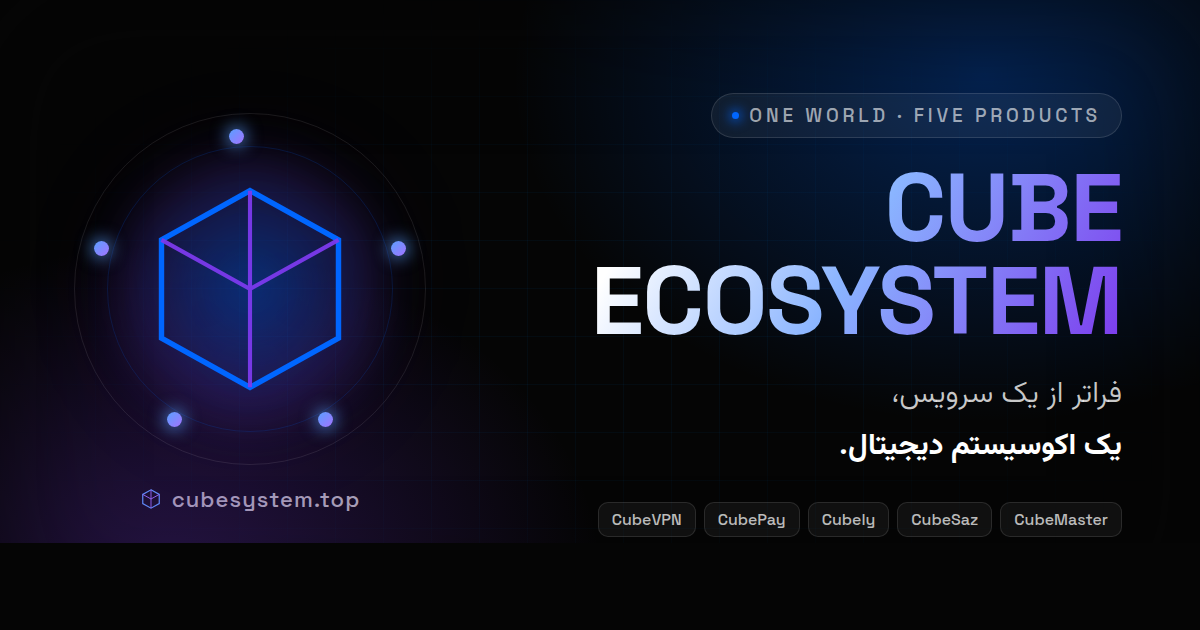
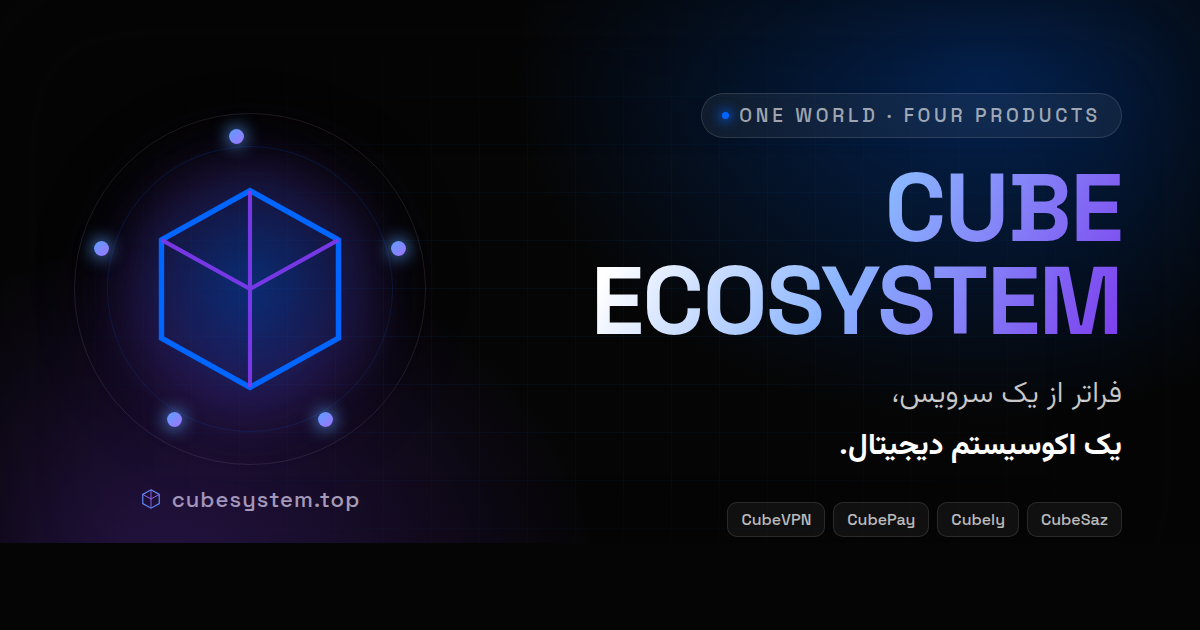
Remove CubeMaster and settle the site to four products
Everything it touched: the nav link, the hero pill, its node in the
diagram, product section 05, its world in the orbit, both footers, its
entry in the popup data, its mark in the sprite, the relay-and-lanes
visual nothing else used, and the README row.

Four also changes what the remaining brands look like. The kicker, the
orbit heading, the network copy and the meta description all count; the
orbit spaces its worlds 360/n apart, so 72 becomes 90; the sections
renumber 01-04 — their light and dark alternation happened to already be
right once the last one went.

Both layouts had a hole to close. The diagram was left with three nodes
around a core, so Cubely moves to the bottom slot and CubeSaz to the
left: four points, evenly spread. The hero pills regroup the same way,
with CubeVPN dropped clear of the cube's corner rather than sitting on
it.

The nav also loses the tightening it needed at 1040px, which existed
only because CubeMaster made it nine items; seven fit as they did
before.

Kept: the pill placement being pinned to scene edges, the hero stacking
below 1100px, and the scene's max-width. Those were fixes for a fault
that predated CubeMaster, not traces of it.

Claude-Session: https://claude.ai/code/session_0184bdv7LNitXUsnSwVEh6QA

Changed region(s): [[0.5858, 0.1508, 0.8017, 0.2111], [0.4933, 0.8143, 0.925, 0.8444]]

diff --git a/index.html b/index.html
@@ -4,7 +4,7 @@
 <meta charset="UTF-8">
 <meta name="viewport" content="width=device-width, initial-scale=1.0">
 <title>Cube Ecosystem — فراتر از یک سرویس، یک اکوسیستم دیجیتال</title>
-<meta name="description" content="اکوسیستم Cube — اتصال، پرداخت، بازار دیجیتال، ساخت ربات و مدیریت زیرساخت. CubeVPN، CubePay، Cubely، CubeSaz و CubeMaster در یک جهان.">
+<meta name="description" content="اکوسیستم Cube — اتصال، پرداخت، بازار دیجیتال و ساخت ربات. CubeVPN، CubePay، Cubely و CubeSaz در یک جهان.">
 <!-- cubepy.github.io serves these same files as the fallback for visitors
      ArvanCloud does not reach, so every page exists at two addresses. The
      canonical names the real one so Google does not split them. -->
@@ -265,11 +265,10 @@ h1.hero-title{
 
    The float animates the standalone translate property rather than transform:
    the entrance tween scales these, and two things writing transform fight. */
-.sat1{left:10%;top:6%;animation:floatA 7s ease-in-out infinite}
-.sat2{right:4%;top:16%;animation:floatB 8s ease-in-out infinite}
-.sat3{left:6%;top:74%;animation:floatB 7.5s ease-in-out infinite}
-.sat4{right:16%;top:88%;animation:floatA 8.5s ease-in-out infinite}
-.sat5{left:2%;top:42%;animation:floatB 6.5s ease-in-out infinite}
+.sat1{left:10%;top:8%;animation:floatA 7s ease-in-out infinite}
+.sat2{right:6%;top:18%;animation:floatB 8s ease-in-out infinite}
+.sat3{left:6%;top:76%;animation:floatB 7.5s ease-in-out infinite}
+.sat4{right:4%;top:70%;animation:floatA 8.5s ease-in-out infinite}
 @media(max-width:900px){.sat{font-size:11.5px;padding:7px 12px}}
 @keyframes floatA{0%,100%{translate:0 0}50%{translate:0 -11px}}
 @keyframes floatB{0%,100%{translate:0 0}50%{translate:0 10px}}
@@ -316,8 +315,7 @@ h1.hero-title{
 .net-top{grid-column:2;grid-row:1;margin-bottom:52px}
 .net-right{grid-column:3;grid-row:2}
 .net-left{grid-column:1;grid-row:2}
-.net-bl{grid-column:1;grid-row:3;margin-top:52px}
-.net-br{grid-column:3;grid-row:3;margin-top:52px}
+.net-bottom{grid-column:2;grid-row:3;margin-top:52px}
 .net-lines{position:absolute;inset:0;z-index:1;pointer-events:none}
 .net-lines line{
   stroke:url(#lineGrad);stroke-width:1.5;
@@ -421,30 +419,6 @@ h1.hero-title{
 .ai-ring.r2{inset:-26px;border-color:rgba(124,58,237,.4);animation-duration:18s;animation-direction:reverse}
 @keyframes rot{to{transform:rotate(360deg)}}
 .ai-orb{width:86px;height:86px;border-radius:50%;background:radial-gradient(circle at 35% 30%,rgba(0,140,255,.9),rgba(124,58,237,.7));box-shadow:0 0 44px rgba(0,102,255,.6);animation:pulse 3.4s ease-in-out infinite}
-/* CubeMaster: relay, three candidate lanes, exit — one of them carrying */
-/* The rail flexes instead of sitting at a fixed width: fixed, it pushed IR
-   and EXIT past the edges of the panel that clips them on a 360px screen. */
-.lanes{display:flex;align-items:center;justify-content:center;gap:16px;direction:ltr;
-  width:100%;max-width:344px;padding:0 16px}
-.lane-end{
-  flex:none;
-  font-family:var(--en);font-size:11.5px;font-weight:600;letter-spacing:.08em;
-  padding:14px 12px;border-radius:12px;white-space:nowrap;
-  background:var(--glass);border:1px solid rgba(0,140,255,.35);
-  box-shadow:0 0 22px rgba(0,102,255,.18);
-}
-.lane-rail{display:flex;flex-direction:column;gap:24px;flex:1 1 auto;min-width:0;max-width:186px}
-.lane{
-  height:2px;border-radius:2px;
-  background:repeating-linear-gradient(90deg,rgba(255,255,255,.28) 0 5px,transparent 5px 12px);
-}
-.lane.live{
-  height:3px;
-  background:repeating-linear-gradient(90deg,#0066FF 0 7px,transparent 7px 15px);
-  box-shadow:0 0 14px rgba(0,102,255,.75);
-  animation:laneflow 1.1s linear infinite;
-}
-@keyframes laneflow{to{background-position:15px 0}}
 .ai-ring .nodeb{position:absolute;top:-5px;left:50%;width:10px;height:10px;border-radius:3px;background:var(--purple);box-shadow:0 0 12px var(--purple)}
 
 /* ---------- worlds ---------- */
@@ -627,7 +601,7 @@ footer{
      and six separate files would undo that for 5KB of vectors. Only the line
      variant of each mark is here; the gradient defs the kit ships with are
      unused by it, so they are stripped. -->
-<svg width="0" height="0" style="position:absolute" aria-hidden="true"><symbol id="m-vpn" viewBox="0 0 256 256"><path d="M18 180 L238 92" fill="none" stroke="#22D3EE" stroke-width="12" stroke-linecap="round" stroke-linejoin="round" opacity="0.25"/><polygon points="128.0,54.0 195.5,93.0 195.5,171.0 128.0,210.0 60.5,171.0 60.5,93.0" fill="none" stroke="#0066FF" stroke-width="12" stroke-linecap="round" stroke-linejoin="round" opacity="0.45"/><path d="M128 54 L128 132 M128 132 L60.5 93 M128 132 L195.5 93" fill="none" stroke="#0066FF" stroke-width="12" stroke-linecap="round" stroke-linejoin="round" opacity="0.45"/><path d="M18 180 L60 163" fill="none" stroke="#22D3EE" stroke-width="12" stroke-linecap="round" stroke-linejoin="round"/><path d="M190 111 L238 92" fill="none" stroke="#22D3EE" stroke-width="12" stroke-linecap="round" stroke-linejoin="round"/><path d="M210 70 L242 90 L216 112" fill="none" stroke="#22D3EE" stroke-width="12" stroke-linecap="round" stroke-linejoin="round"/></symbol><symbol id="m-pay" viewBox="0 0 256 256"><polygon points="128.0,54.0 195.5,93.0 195.5,171.0 128.0,210.0 60.5,171.0 60.5,93.0" fill="none" stroke="#6D5EF6" stroke-width="12" stroke-linecap="round" stroke-linejoin="round" opacity="0.45"/><path d="M128 54 L128 132 M128 132 L60.5 93 M128 132 L195.5 93" fill="none" stroke="#6D5EF6" stroke-width="12" stroke-linecap="round" stroke-linejoin="round" opacity="0.45"/><path d="M82 136 L114 170 L192 86" fill="none" stroke="#2BD9A0" stroke-width="12" stroke-linecap="round" stroke-linejoin="round"/></symbol><symbol id="m-cubely" viewBox="0 0 256 256"><polygon points="128.0,54.0 195.5,93.0 195.5,171.0 128.0,210.0 60.5,171.0 60.5,93.0" fill="none" stroke="#FF2E8B" stroke-width="12" stroke-linecap="round" stroke-linejoin="round" opacity="0.45"/><path d="M128 54 L128 132 M128 132 L60.5 93 M128 132 L195.5 93" fill="none" stroke="#FF2E8B" stroke-width="12" stroke-linecap="round" stroke-linejoin="round" opacity="0.45"/><path d="M92 190 L92 156 M128 190 L128 128 M164 190 L164 100" fill="none" stroke="#FF8A3D" stroke-width="12" stroke-linecap="round" stroke-linejoin="round"/><path d="M76 84 L110 54 L146 76 L198 30" fill="none" stroke="#FF8A3D" stroke-width="12" stroke-linecap="round" stroke-linejoin="round"/><path d="M172 26 L202 26 L202 56" fill="none" stroke="#FF8A3D" stroke-width="12" stroke-linecap="round" stroke-linejoin="round"/></symbol><symbol id="m-saz" viewBox="0 0 256 256"><polygon points="128.0,54.0 195.5,93.0 195.5,171.0 128.0,210.0 60.5,171.0 60.5,93.0" fill="none" stroke="#2563EB" stroke-width="12" stroke-linecap="round" stroke-linejoin="round" opacity="0.45"/><path d="M128 54 L128 132 M128 132 L60.5 93 M128 132 L195.5 93" fill="none" stroke="#2563EB" stroke-width="12" stroke-linecap="round" stroke-linejoin="round" opacity="0.45"/><path d="M161.8 73.5 L94.2 112.5 M94.2 73.5 L161.8 112.5 M195.5 132.0 L128.0 171.0 M161.8 112.5 L161.8 190.5 M60.5 132.0 L128.0 171.0 M94.2 112.5 L94.2 190.5" fill="none" stroke="#2563EB" stroke-width="12" stroke-linecap="round" stroke-linejoin="round" opacity="0.45"/><polygon points="128.0,132.0 161.8,112.5 128.0,93.0 94.2,112.5" fill="#7EA6F7" opacity="0.9"/><polygon points="128.0,132.0 161.8,112.5 161.8,151.5 128.0,171.0" fill="#7EA6F7" opacity="0.62"/><polygon points="128.0,132.0 94.2,112.5 94.2,151.5 128.0,171.0" fill="#7EA6F7" opacity="0.4"/></symbol><symbol id="m-master" viewBox="0 0 256 256"><polygon points="87.3,115.0 128.0,138.5 128.0,185.5 87.3,209.0 46.6,185.5 46.6,138.5" fill="none" stroke="#1EE0A0" stroke-width="12" stroke-linecap="round" stroke-linejoin="round" opacity="0.45"/><path d="M87.298 115 L87.298 162 M87.298 162 L46.6 138.5 M87.298 162 L128.0 138.5" fill="none" stroke="#1EE0A0" stroke-width="12" stroke-linecap="round" stroke-linejoin="round" opacity="0.45"/><polygon points="168.7,115.0 209.4,138.5 209.4,185.5 168.7,209.0 128.0,185.5 128.0,138.5" fill="none" stroke="#1EE0A0" stroke-width="12" stroke-linecap="round" stroke-linejoin="round" opacity="0.45"/><path d="M168.702 115 L168.702 162 M168.702 162 L128.0 138.5 M168.702 162 L209.4 138.5" fill="none" stroke="#1EE0A0" stroke-width="12" stroke-linecap="round" stroke-linejoin="round" opacity="0.45"/><polygon points="128.0,44.5 168.7,68.0 168.7,115.0 128.0,138.5 87.3,115.0 87.3,68.0" fill="none" stroke="#F5A524" stroke-width="12" stroke-linecap="round" stroke-linejoin="round"/><path d="M128 44.5 L128 91.5 M128 91.5 L87.3 68.0 M128 91.5 L168.7 68.0" fill="none" stroke="#F5A524" stroke-width="12" stroke-linecap="round" stroke-linejoin="round"/></symbol></svg>
+<svg width="0" height="0" style="position:absolute" aria-hidden="true"><symbol id="m-vpn" viewBox="0 0 256 256"><path d="M18 180 L238 92" fill="none" stroke="#22D3EE" stroke-width="12" stroke-linecap="round" stroke-linejoin="round" opacity="0.25"/><polygon points="128.0,54.0 195.5,93.0 195.5,171.0 128.0,210.0 60.5,171.0 60.5,93.0" fill="none" stroke="#0066FF" stroke-width="12" stroke-linecap="round" stroke-linejoin="round" opacity="0.45"/><path d="M128 54 L128 132 M128 132 L60.5 93 M128 132 L195.5 93" fill="none" stroke="#0066FF" stroke-width="12" stroke-linecap="round" stroke-linejoin="round" opacity="0.45"/><path d="M18 180 L60 163" fill="none" stroke="#22D3EE" stroke-width="12" stroke-linecap="round" stroke-linejoin="round"/><path d="M190 111 L238 92" fill="none" stroke="#22D3EE" stroke-width="12" stroke-linecap="round" stroke-linejoin="round"/><path d="M210 70 L242 90 L216 112" fill="none" stroke="#22D3EE" stroke-width="12" stroke-linecap="round" stroke-linejoin="round"/></symbol><symbol id="m-pay" viewBox="0 0 256 256"><polygon points="128.0,54.0 195.5,93.0 195.5,171.0 128.0,210.0 60.5,171.0 60.5,93.0" fill="none" stroke="#6D5EF6" stroke-width="12" stroke-linecap="round" stroke-linejoin="round" opacity="0.45"/><path d="M128 54 L128 132 M128 132 L60.5 93 M128 132 L195.5 93" fill="none" stroke="#6D5EF6" stroke-width="12" stroke-linecap="round" stroke-linejoin="round" opacity="0.45"/><path d="M82 136 L114 170 L192 86" fill="none" stroke="#2BD9A0" stroke-width="12" stroke-linecap="round" stroke-linejoin="round"/></symbol><symbol id="m-cubely" viewBox="0 0 256 256"><polygon points="128.0,54.0 195.5,93.0 195.5,171.0 128.0,210.0 60.5,171.0 60.5,93.0" fill="none" stroke="#FF2E8B" stroke-width="12" stroke-linecap="round" stroke-linejoin="round" opacity="0.45"/><path d="M128 54 L128 132 M128 132 L60.5 93 M128 132 L195.5 93" fill="none" stroke="#FF2E8B" stroke-width="12" stroke-linecap="round" stroke-linejoin="round" opacity="0.45"/><path d="M92 190 L92 156 M128 190 L128 128 M164 190 L164 100" fill="none" stroke="#FF8A3D" stroke-width="12" stroke-linecap="round" stroke-linejoin="round"/><path d="M76 84 L110 54 L146 76 L198 30" fill="none" stroke="#FF8A3D" stroke-width="12" stroke-linecap="round" stroke-linejoin="round"/><path d="M172 26 L202 26 L202 56" fill="none" stroke="#FF8A3D" stroke-width="12" stroke-linecap="round" stroke-linejoin="round"/></symbol><symbol id="m-saz" viewBox="0 0 256 256"><polygon points="128.0,54.0 195.5,93.0 195.5,171.0 128.0,210.0 60.5,171.0 60.5,93.0" fill="none" stroke="#2563EB" stroke-width="12" stroke-linecap="round" stroke-linejoin="round" opacity="0.45"/><path d="M128 54 L128 132 M128 132 L60.5 93 M128 132 L195.5 93" fill="none" stroke="#2563EB" stroke-width="12" stroke-linecap="round" stroke-linejoin="round" opacity="0.45"/><path d="M161.8 73.5 L94.2 112.5 M94.2 73.5 L161.8 112.5 M195.5 132.0 L128.0 171.0 M161.8 112.5 L161.8 190.5 M60.5 132.0 L128.0 171.0 M94.2 112.5 L94.2 190.5" fill="none" stroke="#2563EB" stroke-width="12" stroke-linecap="round" stroke-linejoin="round" opacity="0.45"/><polygon points="128.0,132.0 161.8,112.5 128.0,93.0 94.2,112.5" fill="#7EA6F7" opacity="0.9"/><polygon points="128.0,132.0 161.8,112.5 161.8,151.5 128.0,171.0" fill="#7EA6F7" opacity="0.62"/><polygon points="128.0,132.0 94.2,112.5 94.2,151.5 128.0,171.0" fill="#7EA6F7" opacity="0.4"/></symbol></svg>
 
 <!-- preloader -->
 <div id="loader">
@@ -658,7 +632,6 @@ footer{
     <a href="#pay">CubePay</a>
     <a href="#cubely">Cubely</a>
     <a href="#saz">CubeSaz</a>
-    <a href="#master">CubeMaster</a>
     <a href="apps/">Apps</a>
     <a href="#support">Support</a>
   </div>
@@ -668,10 +641,10 @@ footer{
 <section id="hero">
   <div class="wrap hero-grid">
     <div class="hero-copy" id="heroCopy">
-      <span class="hero-kicker reveal"><span class="dot"></span> ONE WORLD · FIVE PRODUCTS</span>
+      <span class="hero-kicker reveal"><span class="dot"></span> ONE WORLD · FOUR PRODUCTS</span>
       <h1 class="hero-title en reveal">CUBE<br>ECOSYSTEM</h1>
       <div class="hero-fa reveal">فراتر از یک سرویس،<br>یک اکوسیستم دیجیتال.</div>
-      <p class="hero-sub reveal">اتصال، پرداخت، بازار دیجیتال، ساخت ربات و زیرساخت.<br>همه در یک جهان.</p>
+      <p class="hero-sub reveal">اتصال، پرداخت، بازار دیجیتال و ساخت ربات.<br>همه در یک جهان.</p>
       <div class="hero-cta reveal">
         <a class="btn-primary en" href="#network">Explore Ecosystem
           <svg width="16" height="16" viewBox="0 0 24 24" fill="none"><path d="M12 5v14m0 0 6-6m-6 6-6-6" stroke="currentColor" stroke-width="2" stroke-linecap="round" stroke-linejoin="round"/></svg>
@@ -692,9 +665,8 @@ footer{
       </div>
       <div class="sat sat1 en"><svg class="mark" aria-hidden="true"><use href="#m-pay"/></svg>CubePay</div>
       <div class="sat sat3 en"><svg class="mark" aria-hidden="true"><use href="#m-cubely"/></svg>Cubely</div>
-      <div class="sat sat4 en"><svg class="mark" aria-hidden="true"><use href="#m-saz"/></svg>CubeSaz</div>
-      <div class="sat sat5 en"><svg class="mark" aria-hidden="true"><use href="#m-vpn"/></svg>CubeVPN</div>
-      <div class="sat sat2 en"><svg class="mark" aria-hidden="true"><use href="#m-master"/></svg>CubeMaster</div>
+      <div class="sat sat2 en"><svg class="mark" aria-hidden="true"><use href="#m-saz"/></svg>CubeSaz</div>
+      <div class="sat sat4 en"><svg class="mark" aria-hidden="true"><use href="#m-vpn"/></svg>CubeVPN</div>
     </div>
   </div>
 </section>
@@ -704,7 +676,7 @@ footer{
   <div class="wrap">
     <div class="section-kicker reveal">THE CUBE NETWORK</div>
     <h2 class="section-title en reveal">One core.<br>Infinite connections.</h2>
-    <p class="section-fa reveal">همهچیز از یک هسته شروع میشود — CUBE قلب اکوسیستم است<br>و پنج جهان دیجیتال به دور آن میچرخند.</p>
+    <p class="section-fa reveal">همهچیز از یک هسته شروع میشود — CUBE قلب اکوسیستم است<br>و چهار جهان دیجیتال به دور آن میچرخند.</p>
 
     <div class="net-scene reveal">
       <!-- Connector lines are generated from the real card positions in JS
@@ -723,9 +695,8 @@ footer{
       <div class="net-node net-top en" data-brand="vpn"><svg class="mark" aria-hidden="true"><use href="#m-vpn"/></svg>CubeVPN</div>
       <div class="net-node net-core en">CUBE</div>
       <div class="net-node net-right en" data-brand="pay"><svg class="mark" aria-hidden="true"><use href="#m-pay"/></svg>CubePay</div>
-      <div class="net-node net-bl en" data-brand="cubely"><svg class="mark" aria-hidden="true"><use href="#m-cubely"/></svg>Cubely</div>
-      <div class="net-node net-br en" data-brand="saz"><svg class="mark" aria-hidden="true"><use href="#m-saz"/></svg>CubeSaz</div>
-      <div class="net-node net-left en" data-brand="master"><svg class="mark" aria-hidden="true"><use href="#m-master"/></svg>CubeMaster</div>
+      <div class="net-node net-bottom en" data-brand="cubely"><svg class="mark" aria-hidden="true"><use href="#m-cubely"/></svg>Cubely</div>
+      <div class="net-node net-left en" data-brand="saz"><svg class="mark" aria-hidden="true"><use href="#m-saz"/></svg>CubeSaz</div>
     </div>
 
     <p class="net-msg reveal"><strong>CUBE is the core.</strong><br>Everything connects around it.</p>
@@ -810,38 +781,12 @@ footer{
   </div>
 </section>
 
-<!-- ═══════════ 05 CubeMaster ═══════════ -->
-<section id="master" class="product">
-  <div class="wrap prod-grid">
-    <div class="prod-text">
-      <div class="prod-num en anim">05</div>
-      <h2 class="prod-name en anim">Cube<span class="accent">Master</span></h2>
-      <div class="prod-fa anim">پنل فروش نمایندگی،<br>روی زیرساختی که نمیخوابد.</div>
-      <p class="prod-desc anim">نمایندههایت را کامل مدیریت کن: کیف پول، قیمت هر گیگ، صورتحساب خودکار، انقضا و ربات تلگرام. زیرش هم مسیرها مدام از داخل ایران سنجیده میشوند و وقتی یکی افت میکند، کاربرها بیسروصدا روی مسیر سالم میروند.</p>
-      <a class="prod-link anim" href="https://t.me/CubePanel" target="_blank" rel="noopener">t.me/CubePanel ↗</a>
-    </div>
-    <div class="prod-visual anim-vis">
-      <!-- three lanes between an Iranian relay and a foreign exit; the live one
-           carries the dashes, the others wait. That is the product. -->
-      <div class="viz-icon lanes">
-        <div class="lane-end">IR</div>
-        <div class="lane-rail">
-          <div class="lane live"></div>
-          <div class="lane"></div>
-          <div class="lane"></div>
-        </div>
-        <div class="lane-end">EXIT</div>
-      </div>
-    </div>
-  </div>
-</section>
-
 <!-- ═══════════ WORLDS ═══════════ -->
 <section id="worlds">
   <div class="wrap">
     <div class="section-kicker reveal">ORBIT</div>
-    <h2 class="section-title en reveal">One Ecosystem.<br>Five Worlds.</h2>
-    <p class="section-fa reveal">پنج جهان دیجیتال، در مدار یک هسته.</p>
+    <h2 class="section-title en reveal">One Ecosystem.<br>Four Worlds.</h2>
+    <p class="section-fa reveal">چهار جهان دیجیتال، در مدار یک هسته.</p>
     <div class="worlds-stage reveal" id="worldsStage">
       <div class="worlds-orbit" id="worldsOrbit">
         <div class="world core-world">
@@ -849,21 +794,18 @@ footer{
             <svg viewBox="0 0 24 24" fill="none"><path d="M12 2 21 7v10l-9 5-9-5V7l9-5Z" stroke="#fff" stroke-width="1.3"/><path d="M12 2v10m0 0 9-5m-9 5-9-5m9 5v10" stroke="rgba(255,255,255,.7)" stroke-width="1"/></svg>
           </div><span>CUBE</span>
         </div>
-        <!-- angles are 360/n apart; five worlds means 72, not 60 -->
+        <!-- angles are 360/n apart; four worlds means 90, not 72 -->
         <a class="world" href="https://t.me/Cube_VPNN" target="_blank" rel="noopener" data-angle="0" data-brand="vpn">
           <div class="sphere"><svg class="mark" aria-hidden="true"><use href="#m-vpn"/></svg></div><span>CubeVPN</span>
         </a>
-        <a class="world pu" href="https://t.me/Cubepy" target="_blank" rel="noopener" data-angle="72" data-brand="pay">
+        <a class="world pu" href="https://t.me/Cubepy" target="_blank" rel="noopener" data-angle="90" data-brand="pay">
           <div class="sphere"><svg class="mark" aria-hidden="true"><use href="#m-pay"/></svg></div><span>CubePay</span>
         </a>
-        <a class="world" href="https://cubely.ir/" target="_blank" rel="noopener" data-angle="144" data-brand="cubely">
+        <a class="world" href="https://cubely.ir/" target="_blank" rel="noopener" data-angle="180" data-brand="cubely">
           <div class="sphere"><svg class="mark" aria-hidden="true"><use href="#m-cubely"/></svg></div><span>Cubely</span>
         </a>
-        <a class="world pu" href="https://t.me/CubeSaz" target="_blank" rel="noopener" data-angle="216" data-brand="saz">
+        <a class="world pu" href="https://t.me/CubeSaz" target="_blank" rel="noopener" data-angle="270" data-brand="saz">
           <div class="sphere"><svg class="mark" aria-hidden="true"><use href="#m-saz"/></svg></div><span>CubeSaz</span>
-        </a>
-        <a class="world" href="https://t.me/CubePanel" target="_blank" rel="noopener" data-angle="288" data-brand="master">
-          <div class="sphere"><svg class="mark" aria-hidden="true"><use href="#m-master"/></svg></div><span>CubeMaster</span>
         </a>
       </div>
     </div>
@@ -920,7 +862,6 @@ footer{
     <a href="https://t.me/Cubepy" target="_blank" rel="noopener" data-brand="pay"><svg class="mark" aria-hidden="true"><use href="#m-pay"/></svg>CubePay</a>
     <a href="https://cubely.ir/" target="_blank" rel="noopener" data-brand="cubely"><svg class="mark" aria-hidden="true"><use href="#m-cubely"/></svg>Cubely</a>
     <a href="https://t.me/CubeSaz" target="_blank" rel="noopener" data-brand="saz"><svg class="mark" aria-hidden="true"><use href="#m-saz"/></svg>CubeSaz</a>
-    <a href="https://t.me/CubePanel" target="_blank" rel="noopener" data-brand="master"><svg class="mark" aria-hidden="true"><use href="#m-master"/></svg>CubeMaster</a>
     <a href="apps/"><i></i>Apps</a>
     <a href="https://donofa.com/Cube" target="_blank" rel="noopener"><i></i>Support</a>
   </div>
@@ -1463,12 +1404,7 @@ function loadThree(){
       tag:'ربات فروش خودت را در ۲ دقیقه بساز.',
       desc:'پلتفرم ساخت ربات فروش — بدون سرور، بدون کدنویسی و بدون هزینه اولیه؛ فقط توکن ربات را بده، بقیهاش با ماست.',
       feats:['پشتیبانی از ۱۳ پنل: مرزبان، هیدیفای، 3X-UI و…','مینیاپ اختصاصی مشتری داخل تلگرام','کیف پول و درگاه: کریپتو، کارتبهکارت، زرینپال','بکاپ خودکار هر ۶ ساعت + ۳ روز تست رایگان'],
-      url:'https://t.me/CubeSaz',cta:'Join CubeSaz'},
-    master:{name:'CubeMaster',color:'#7C3AED',glow:'rgba(124,58,237,.18)',
-      tag:'پنل فروش نمایندگی.',
-      desc:'نمایندگیات را کامل میگرداند — کیف پول، قیمتگذاری هر گیگ، صورتحساب خودکار و انقضا — و زیر همان پنل، تونلها را خودش سرپا نگه میدارد.',
-      feats:['کیف پول نماینده با صورتحساب و شارژ خودکار','قیمت هر گیگابایت و سقف اعتبار برای هر نماینده','ربات تلگرام نماینده + تأیید رسید و ثبتنام','مسیرها از داخل ایران سنجیده و خودکار جابهجا میشوند'],
-      url:'https://t.me/CubePanel',cta:'Join CubePanel'}
+      url:'https://t.me/CubeSaz',cta:'Join CubeSaz'}
   };
   const bd=document.getElementById('brandModal'),
         modal=bd.querySelector('.modal'),

diff --git a/tools/og/cover.html b/tools/og/cover.html
@@ -96,7 +96,7 @@ h1 span{display:block}
   <div class="edge"></div>
 
   <div class="copy">
-    <div class="kicker"><i></i>ONE WORLD · FIVE PRODUCTS</div>
+    <div class="kicker"><i></i>ONE WORLD · FOUR PRODUCTS</div>
     <h1><span>CUBE</span><span>ECOSYSTEM</span></h1>
     <div class="tag">فراتر از یک سرویس،<br><b>یک اکوسیستم دیجیتال.</b></div>
     <div class="chips">
@@ -104,7 +104,6 @@ h1 span{display:block}
       <div class="chip">CubePay</div>
       <div class="chip">Cubely</div>
       <div class="chip">CubeSaz</div>
-      <div class="chip">CubeMaster</div>
     </div>
   </div>
 

diff --git a/apps/index.html b/apps/index.html
@@ -203,7 +203,6 @@ footer{position:relative;z-index:2;background:#000;border-top:1px solid rgba(255
     <a href="https://t.me/Cubepy" target="_blank" rel="noopener"><i></i>CubePay</a>
     <a href="https://cubely.ir/" target="_blank" rel="noopener"><i></i>Cubely</a>
     <a href="https://t.me/CubeSaz" target="_blank" rel="noopener"><i></i>CubeSaz</a>
-    <a href="https://t.me/CubePanel" target="_blank" rel="noopener"><i></i>CubeMaster</a>
     <a href="https://donofa.com/Cube" target="_blank" rel="noopener"><i></i>Support</a>
   </div>
   <div class="footer-copy">© Cube Ecosystem — Connect. Create. Evolve.</div>

diff --git a/README.md b/README.md
@@ -2,7 +2,7 @@
 
 🌐 **https://cubesystem.top**
 
-لندینگ رسمی اکوسیستم Cube — اتصال، پرداخت، بازار دیجیتال، ساخت ربات و زیرساخت.
+لندینگ رسمی اکوسیستم Cube — اتصال، پرداخت، بازار دیجیتال و ساخت ربات.
 
 | برند | لینک |
 |---|---|
@@ -10,7 +10,6 @@
 | CubePay | https://t.me/Cubepy |
 | Cubely | https://cubely.ir |
 | CubeSaz | https://t.me/CubeSaz |
-| CubeMaster | https://t.me/CubePanel |
 
 ساختهشده با Three.js و GSAP — بدون هیچ وابستگی CDN (کتابخانهها در `assets/vendor/`).
 
